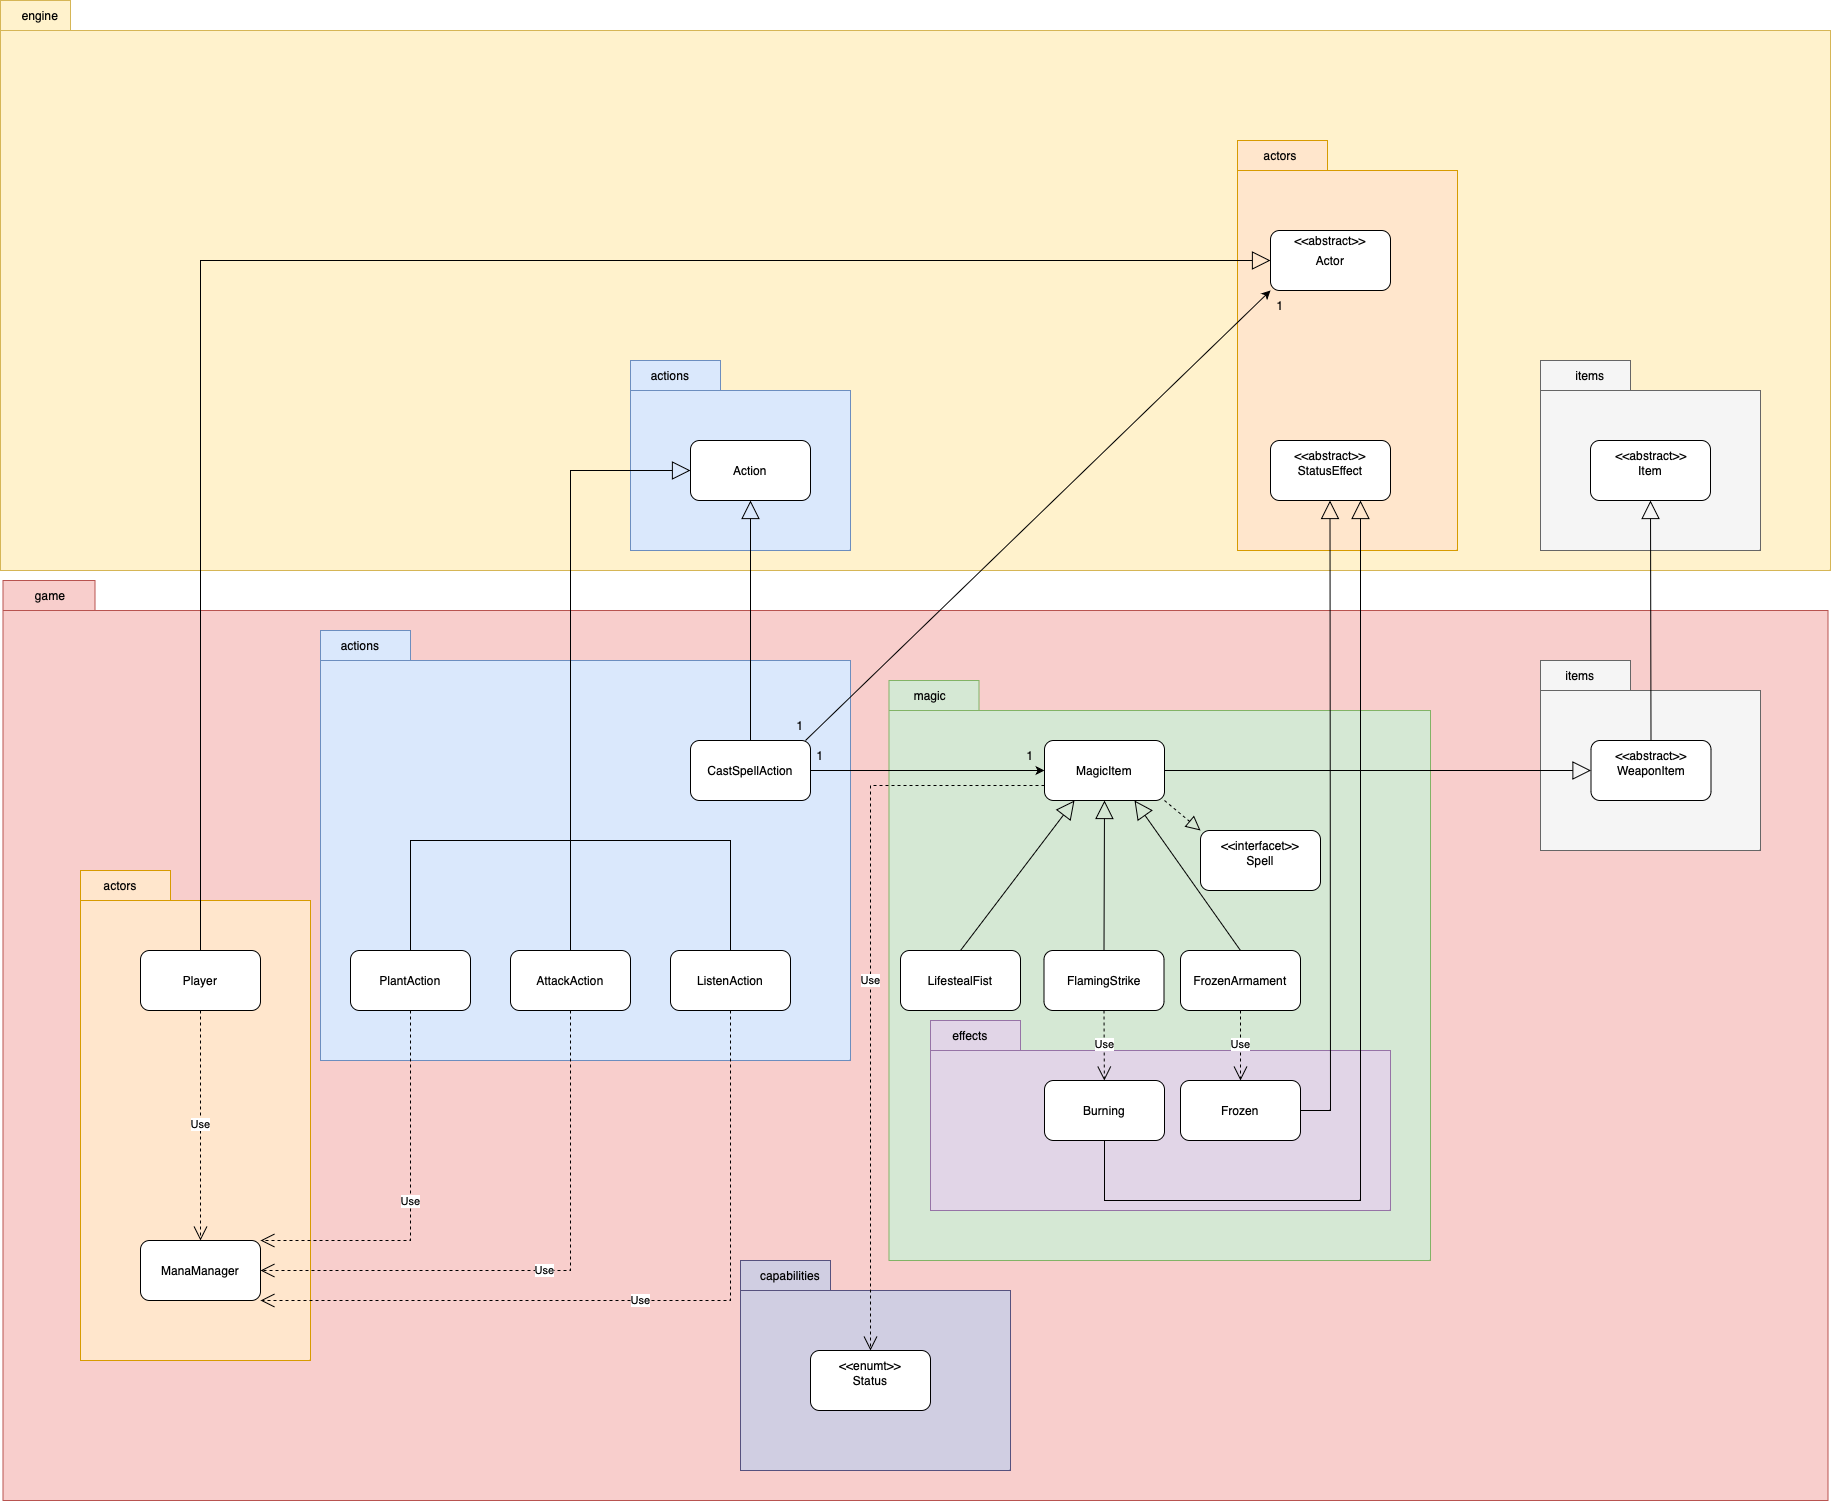
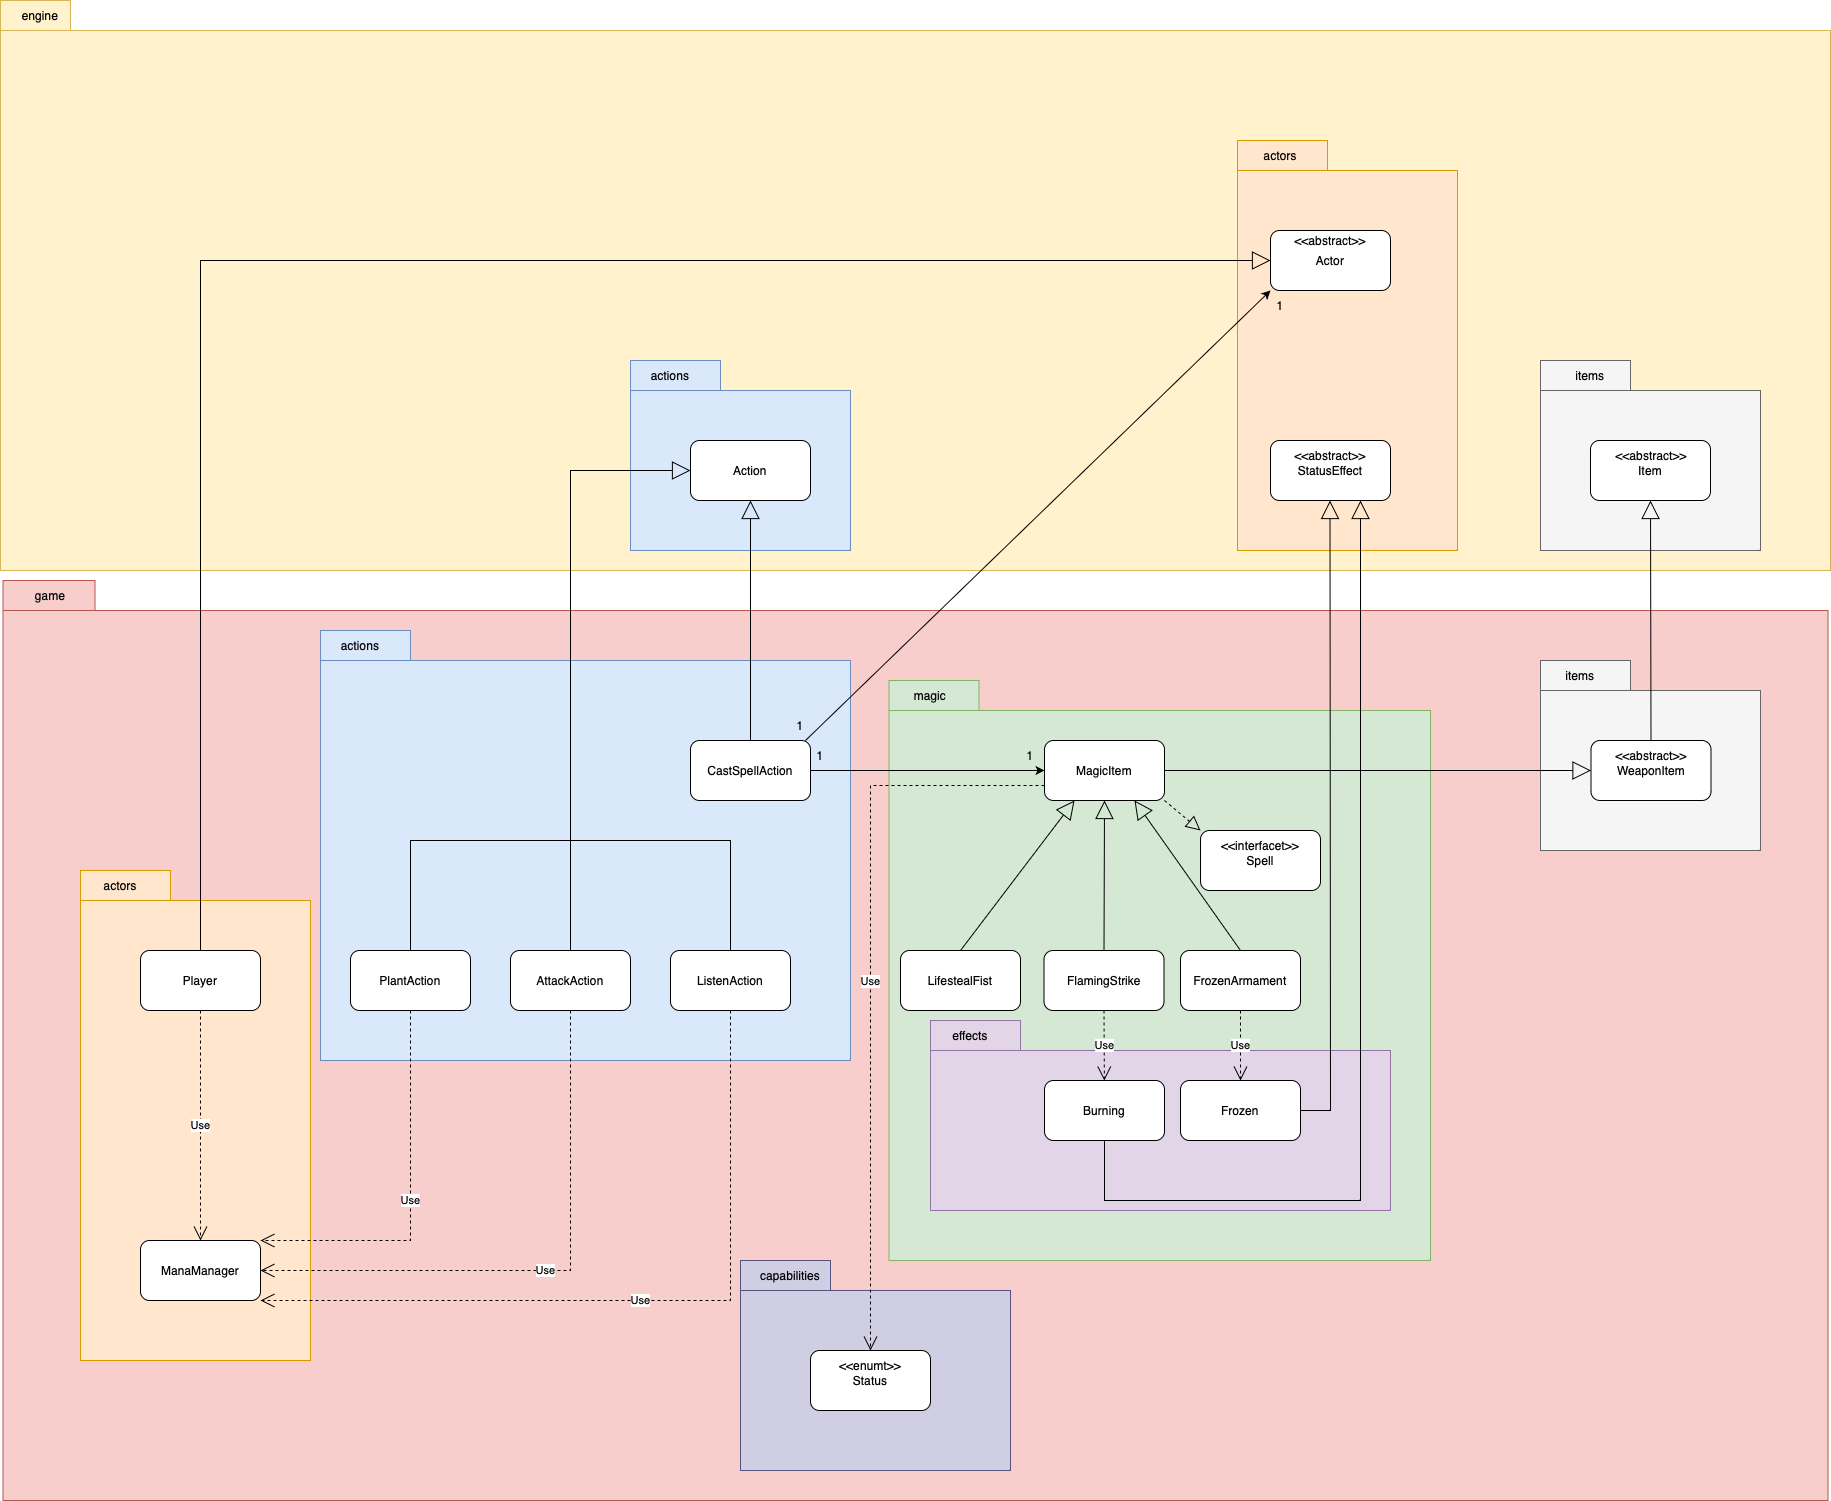
A3 Req3 sequence diagram

diff --git a/src/game/actions/CastSpellAction.java b/src/game/actions/CastSpellAction.java
@@ -35,13 +35,11 @@ public class CastSpellAction extends Action {
     @Override
     public String execute(Actor actor, GameMap map) {
         Integer currentMana = actor.getAttribute(BaseActorAttributes.MANA);
-        if (currentMana != null) {
-            int cost = item.getManaCost();
-            if (currentMana < cost) {
-                return actor + " does not have enough mana to cast " + item;
+        int cost = item.getManaCost();
+        if (currentMana < cost) {
+            return actor + " does not have enough mana to cast " + item;
             }
-            actor.modifyAttribute(BaseActorAttributes.MANA, ActorAttributeOperations.DECREASE, cost);
-        }
+        actor.modifyAttribute(BaseActorAttributes.MANA, ActorAttributeOperations.DECREASE, cost);
         return item.cast(actor, target, map);
     }
     /**
